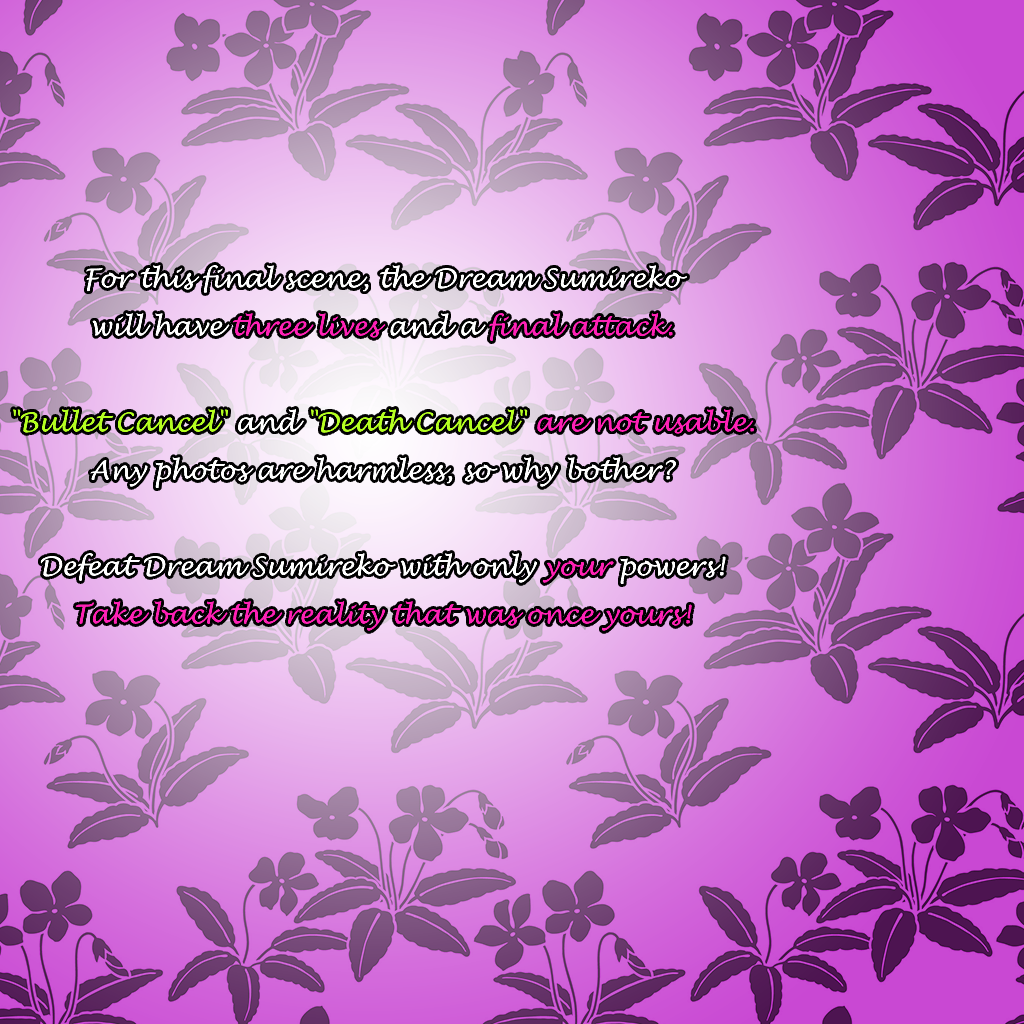
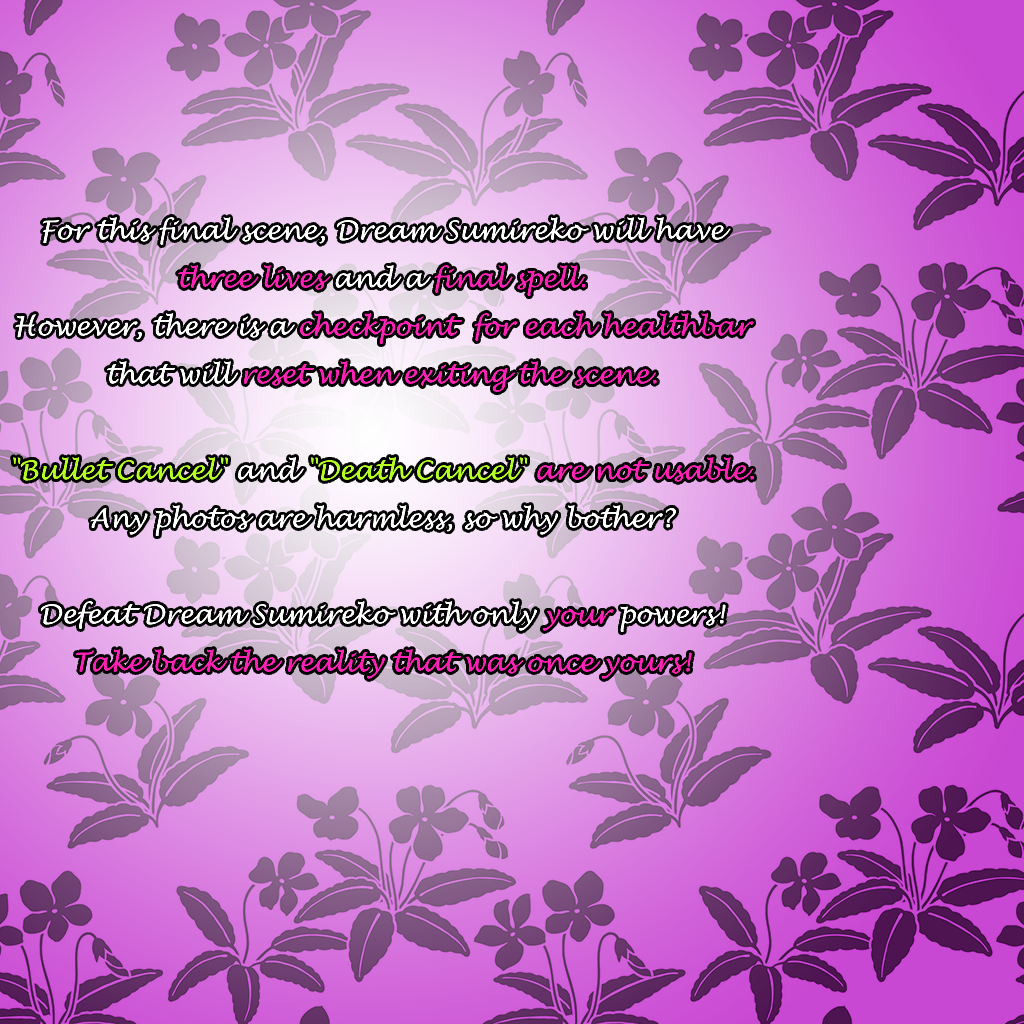
final scene checkpoints (finally)

Changed region(s): [[0.0, 0.1875, 0.75, 0.6875]]

diff --git a/vdr/th165/titlemsg.js b/vdr/th165/titlemsg.js
@@ -372,7 +372,7 @@
     ],
     "17_3": [
         "Looks like a saint being crucified on a cross. 10 if you're being funny.",
-        "Best not ask why this vampire is immune to that sport of deal."
+        "Best not ask why this vampire is immune to that sort of deal."
     ],
     "17_4": [
         "Is she a phoenix, or is her aura one? Either way, she revives with a bang.",
@@ -383,8 +383,8 @@
         "All my homies hate attacks that restrict movement."
     ],
     "17_6": [
-        "Are there any other guys that can control time, use knives,",
-        "and are associated with vampires? Asking for a friend."
+        "These two just won't make me catch a break.",
+        "It's like watching a long marathon of some shows of nonsese!"
     ],
     "18_0": [
 		"So many dreams I cannot recall. Might as well just say",

diff --git a/vdr/th165/spells.js b/vdr/th165/spells.js
@@ -86,7 +86,7 @@
     "56": "Back Door \"Matarah Vijnana\"",
 	
     "906": "\"PCB 6\"",
-    "57": "Ghastly Dance \"Saigyouji Afterlife Ritutal ~Mahasamadhi~\"",
+    "57": "Ghastly Dance \"Saigyouji Afterlife Ritual ~Mahasamadhi~\"",
     "58": "Judgement \"Ascension into a Monochrome World\"",
     "59": "Khanti \"Forbidden Sorcery Extravaganza\"",
     "60": "Hermit Sign \"Fabulously, Absolutely Starry Shaku Light\"",
